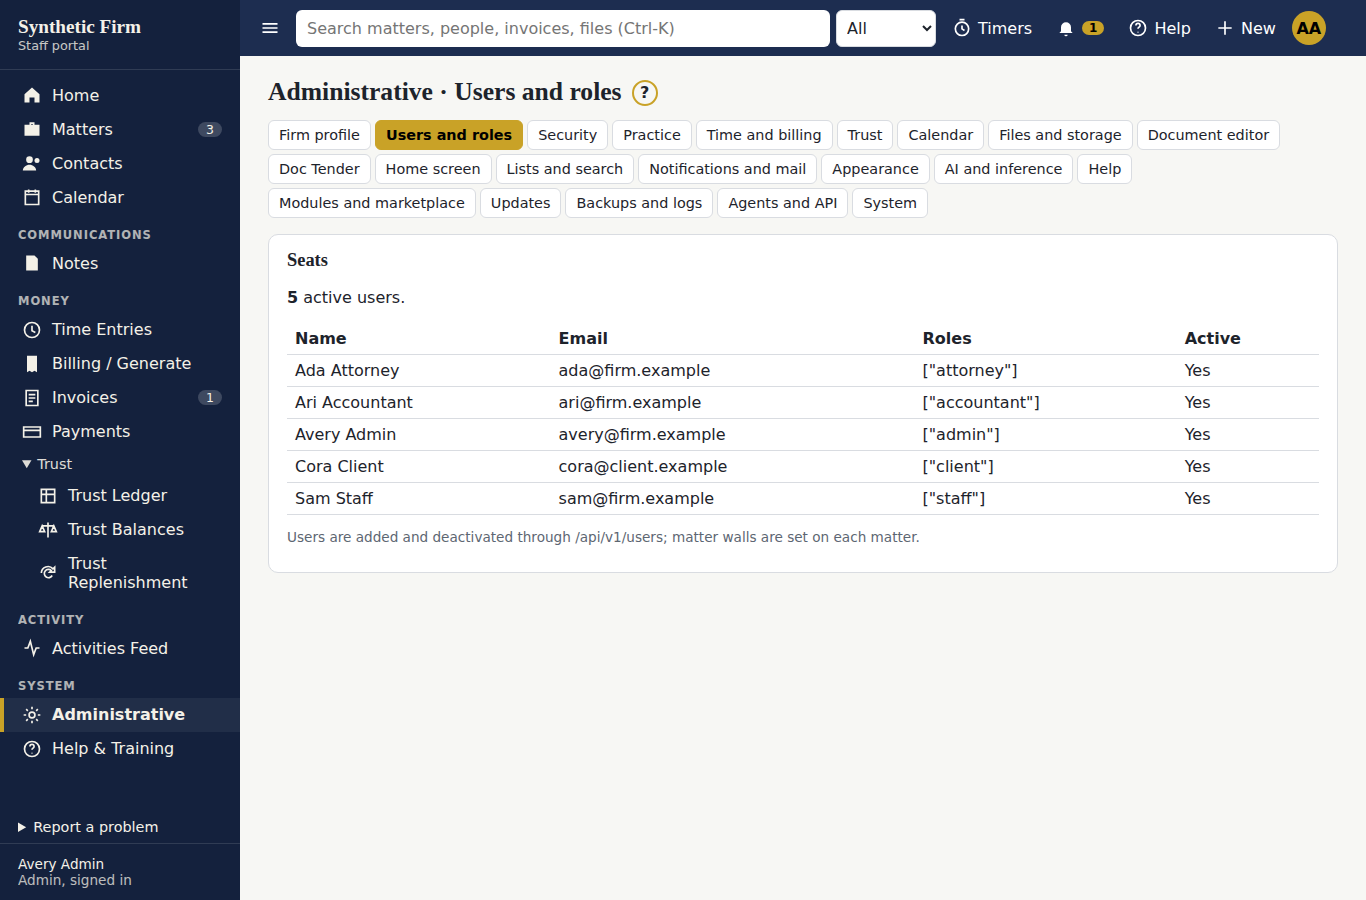
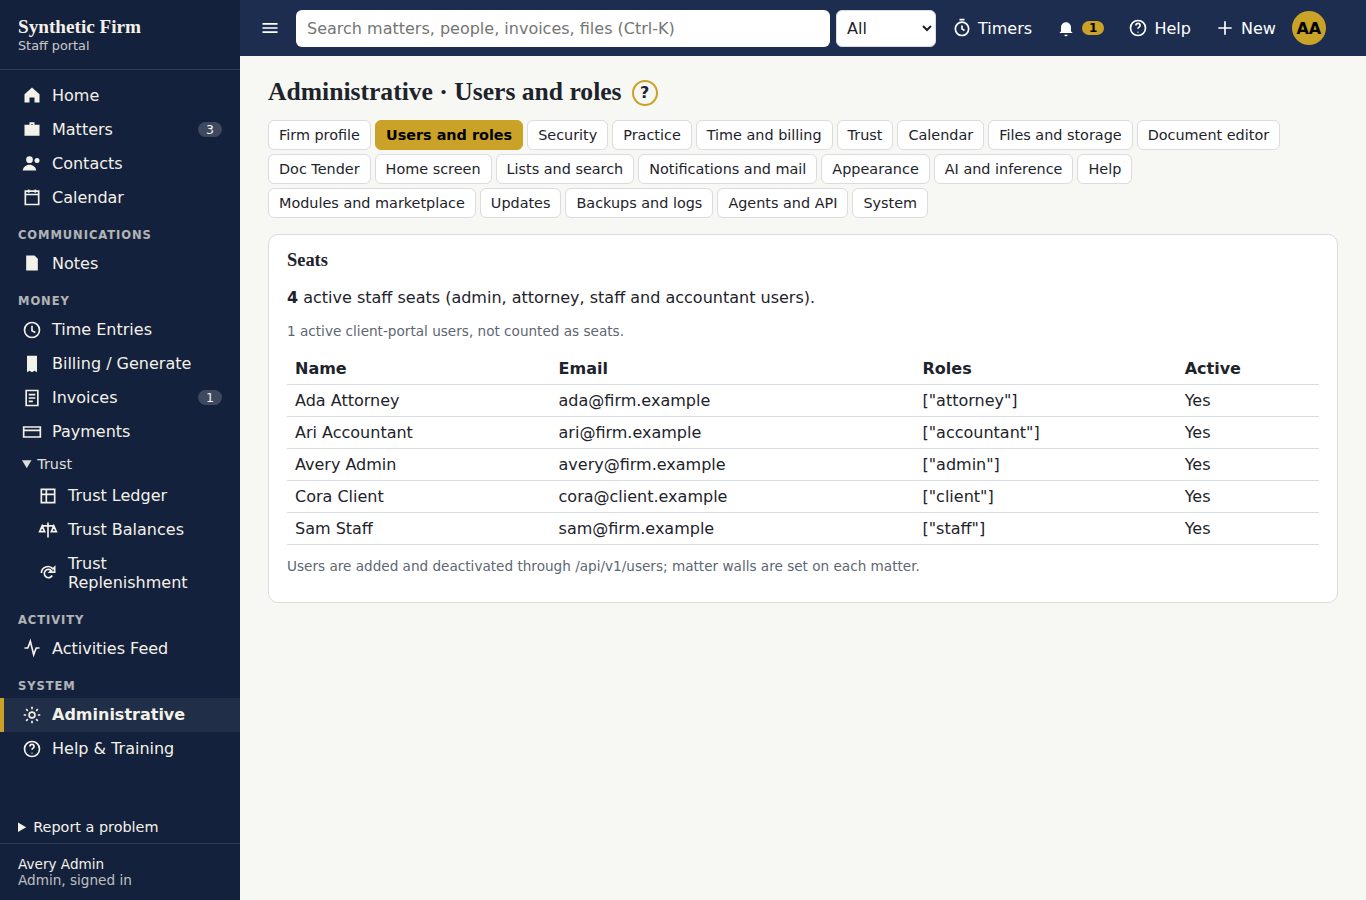
UI: lock the widget catalog for live module installs; seats count staff, not portal users
Codex checkpoint on 8383f19:

P1: Catalog.defs and Catalog.sources were plain maps written by AddModule and
RemoveModule while home, picker and widget requests read them. Catalog now holds a
sync.RWMutex: Def, Visible, For and Load take the read lock (Load copies the source
out and runs it after releasing the lock), AddModule and RemoveModule take the write
lock. TestCatalogModuleInstallWhileRequestsLoadWidgets installs and removes a module
300 times while four goroutines load widgets and layouts; under -race it reports
data races on the old code and passes now.

P2: SeatCount counted every active user, client-portal users included. A seat is now
an active user with a staff-app role (admin, attorney, staff, accountant); active
portal users are counted separately and shown on the System and Users tabs as not
seats. Covered by TestSeatCountCountsActiveStaffNotClientUsers and the PG admin test
with an enrolled client user.

Changed region(s): [[0.2152, 0.3111, 0.6764, 0.6533], [0.6764, 0.3733, 0.7687, 0.5911], [0.8609, 0.3733, 0.9224, 0.5911]]

diff --git a/web/templates/admin/admin.html b/web/templates/admin/admin.html
@@ -61,7 +61,8 @@
 {{end}}
 
 {{if or (eq .Tab "users_roles") (eq .Tab "system")}}
-<section class="card"><h2>Seats</h2><p><strong>{{.Seats}}</strong> active users.</p>
+<section class="card"><h2>Seats</h2><p><strong>{{.Seats.Staff}}</strong> active staff seats (admin, attorney, staff and accountant users).</p>
+<p class="muted">{{.Seats.Clients}} active client-portal users, not counted as seats.</p>
 {{if eq .Tab "users_roles"}}{{if .Users}}<table><thead><tr><th>Name</th><th>Email</th><th>Roles</th><th>Active</th></tr></thead><tbody>
 {{range .Users}}<tr><td>{{.Name}}</td><td>{{.Email}}</td><td>{{.Roles}}</td><td>{{if .Active}}Yes{{else}}No{{end}}</td></tr>{{end}}</tbody></table>{{end}}
 <p class="muted">Users are added and deactivated through /api/v1/users; matter walls are set on each matter.</p>{{end}}

diff --git a/internal/dashboard/service_test.go b/internal/dashboard/service_test.go
@@ -521,3 +521,110 @@ func TestSafeLinksAndTargets(t *testing.T) {
 	}
 	_ = time.Now
 }
+
+// Codex P1 on 8383f19: modules install and uninstall while the core serves requests
+// (AC-012), so the catalog must survive AddModule/RemoveModule racing with home page,
+// picker and widget loads. Run with -race; before the lock this test hit Go's fatal
+// "concurrent map iteration and map write".
+func TestCatalogModuleInstallWhileRequestsLoadWidgets(t *testing.T) {
+	src := map[string]Source{"my-time": func(ctx context.Context, p domain.Principal, f map[string]string) (Widget, error) {
+		return Widget{Title: "My time"}, nil
+	}}
+	svc, _, _ := newTestService(t, src)
+	cat := svc.Catalog()
+	ctx := context.Background()
+	if _, err := svc.PutWorking(ctx, staffP, []LayoutWidget{{WidgetID: "my-time", X: 0, Y: 0, W: 4, H: 3}}); err != nil {
+		t.Fatal(err)
+	}
+	// A module source that reads the catalog while it runs must not deadlock: Load
+	// copies the source out and releases the lock before calling it.
+	modSrc := func(id string) Source {
+		return func(ctx context.Context, p domain.Principal, f map[string]string) (Widget, error) {
+			_ = cat.For(p)
+			return Widget{Title: id}, nil
+		}
+	}
+	stop := make(chan struct{})
+	var wg sync.WaitGroup
+	errs := make(chan error, 64)
+	for i := 0; i < 4; i++ {
+		wg.Add(1)
+		go func() {
+			defer wg.Done()
+			for {
+				select {
+				case <-stop:
+					return
+				default:
+				}
+				_ = cat.For(staffP)
+				_ = cat.Visible(staffP, "matter-clock.clock")
+				_, _ = cat.Def("matter-clock.clock")
+				if _, err := cat.Load(ctx, staffP, "my-time", nil); err != nil {
+					errs <- err
+					return
+				}
+				if _, err := cat.Load(ctx, staffP, "matter-clock.clock", nil); err != nil && code(err) != domain.CodeNotFound {
+					errs <- err
+					return
+				}
+				if _, err := svc.Working(ctx, staffP); err != nil {
+					errs <- err
+					return
+				}
+			}
+		}()
+	}
+	for i := 0; i < 300; i++ {
+		if err := cat.AddModule("matter-clock", []ManifestWidget{{ID: "clock", Title: "Matter clock", Target: "/modules/matter-clock/tab"}}, modSrc); err != nil {
+			t.Fatal(err)
+		}
+		cat.RemoveModule("matter-clock")
+	}
+	close(stop)
+	wg.Wait()
+	close(errs)
+	for err := range errs {
+		t.Fatalf("load during module install: %v", err)
+	}
+	// After the churn the module installs cleanly and its widget loads.
+	if err := cat.AddModule("matter-clock", []ManifestWidget{{ID: "clock", Title: "Matter clock", Target: "/modules/matter-clock/tab"}}, modSrc); err != nil {
+		t.Fatal(err)
+	}
+	if w, err := cat.Load(ctx, staffP, "matter-clock.clock", nil); err != nil || w.Title != "clock" {
+		t.Fatalf("module widget after install: %v %+v", err, w)
+	}
+}
+
+// Codex P2 on 8383f19: a seat is a firm user who signs in to the staff app (admin,
+// attorney, staff, accountant). Client-portal users and inactive users are not seats;
+// the System tab shows active portal users as a separate count so a host sees both.
+func TestSeatCountCountsActiveStaffNotClientUsers(t *testing.T) {
+	ctx := context.Background()
+	svc, _, _ := newTestService(t, nil)
+	svc.d.Staff = func(context.Context) ([]domain.User, error) {
+		return []domain.User{
+			{Email: "admin@firm.example", Roles: `["admin"]`, Active: true},
+			{Email: "atty@firm.example", Roles: `["attorney"]`, Active: true},
+			{Email: "acct@firm.example", Roles: `["accountant"]`, Active: true},
+			{Email: "old@firm.example", Roles: `["staff"]`, Active: false},
+			{Email: "cora@client.example", Roles: `["client"]`, Active: true},
+			{Email: "gone@client.example", Roles: `["client"]`, Active: false},
+			{Email: "both@firm.example", Roles: `["staff","client"]`, Active: true},
+		}, nil
+	}
+	got, err := svc.SeatCount(ctx, adminP)
+	if err != nil {
+		t.Fatal(err)
+	}
+	if got != (Seats{Staff: 4, Clients: 1}) {
+		t.Fatalf("seats: %+v, want 4 staff seats and 1 portal user", got)
+	}
+	if _, err := svc.SeatCount(ctx, staffP); code(err) != domain.CodeForbidden {
+		t.Fatalf("non-admin read the seat count: %v", err)
+	}
+	svc.d.Staff = func(context.Context) ([]domain.User, error) { return nil, errors.New("db down") }
+	if _, err := svc.SeatCount(ctx, adminP); err == nil {
+		t.Fatal("seat count hid a user-list failure")
+	}
+}

diff --git a/internal/dashboard/widgets.go b/internal/dashboard/widgets.go
@@ -7,6 +7,7 @@ import (
 	"regexp"
 	"sort"
 	"strings"
+	"sync"
 
 	"github.com/CharitonMedia/togavsu/internal/domain"
 )
@@ -122,8 +123,12 @@ func ValidateManifestWidgets(module string, ws []ManifestWidget) error {
 	return nil
 }
 
-// Catalog holds the core widgets and the widgets of approved, enabled modules.
+// Catalog holds the core widgets and the widgets of approved, enabled modules. Modules
+// install and uninstall while the core serves requests (PRD 9, AC-012), so every read
+// takes mu's read lock and AddModule/RemoveModule take the write lock. A source is
+// copied out under the lock and run after it is released.
 type Catalog struct {
+	mu      sync.RWMutex
 	defs    map[string]WidgetDef
 	sources map[string]Source
 }
@@ -150,6 +155,8 @@ func (c *Catalog) AddModule(module string, ws []ManifestWidget, src func(widgetI
 	if err := ValidateManifestWidgets(module, ws); err != nil {
 		return err
 	}
+	c.mu.Lock()
+	defer c.mu.Unlock()
 	for _, w := range ws {
 		id := ModuleWidgetID(module, w.ID)
 		roles := w.Roles
@@ -173,6 +180,8 @@ func (c *Catalog) AddModule(module string, ws []ManifestWidget, src func(widgetI
 
 // RemoveModule drops a module's widgets; saved layouts lose them when they next load.
 func (c *Catalog) RemoveModule(module string) {
+	c.mu.Lock()
+	defer c.mu.Unlock()
 	for id, d := range c.defs {
 		if d.Module == module {
 			delete(c.defs, id)
@@ -183,6 +192,8 @@ func (c *Catalog) RemoveModule(module string) {
 
 // Def returns one widget definition.
 func (c *Catalog) Def(id string) (WidgetDef, bool) {
+	c.mu.RLock()
+	defer c.mu.RUnlock()
 	d, ok := c.defs[id]
 	return d, ok
 }
@@ -190,10 +201,13 @@ func (c *Catalog) Def(id string) (WidgetDef, bool) {
 // Visible reports whether p may have widget id on a layout: the widget exists and one of
 // p's roles is among the roles its API route serves.
 func (c *Catalog) Visible(p domain.Principal, id string) bool {
+	c.mu.RLock()
 	d, ok := c.defs[id]
-	if !ok {
-		return false
-	}
+	c.mu.RUnlock()
+	return ok && visible(p, d)
+}
+
+func visible(p domain.Principal, d WidgetDef) bool {
 	for _, r := range d.Roles {
 		if p.HasRole(r) {
 			return true
@@ -209,11 +223,13 @@ func (c *Catalog) For(p domain.Principal) []WidgetDef {
 		order[d.ID] = i
 	}
 	var out []WidgetDef
-	for id, d := range c.defs {
-		if c.Visible(p, id) {
+	c.mu.RLock()
+	for _, d := range c.defs {
+		if visible(p, d) {
 			out = append(out, d)
 		}
 	}
+	c.mu.RUnlock()
 	sort.Slice(out, func(i, j int) bool {
 		oi, iok := order[out[i].ID]
 		oj, jok := order[out[j].ID]
@@ -231,15 +247,17 @@ func (c *Catalog) For(p domain.Principal) []WidgetDef {
 // Load runs one widget's source as p. A widget p cannot see is forbidden before the
 // source runs; the source applies record-level access (walls, attorney-only) itself.
 func (c *Catalog) Load(ctx context.Context, p domain.Principal, id string, filters map[string]string) (Widget, error) {
-	if !c.Visible(p, id) {
-		if _, ok := c.defs[id]; !ok {
-			return Widget{}, domain.NotFound("widget")
-		}
+	c.mu.RLock()
+	d, ok := c.defs[id]
+	src := c.sources[id]
+	c.mu.RUnlock()
+	if !ok {
+		return Widget{}, domain.NotFound("widget")
+	}
+	if !visible(p, d) {
 		return Widget{}, domain.Forbidden(domain.ReasonRole)
 	}
-	src := c.sources[id]
 	if src == nil {
-		d := c.defs[id]
 		return Widget{ID: id, Title: d.Title, Target: Target{Path: d.Page, Query: map[string]string{}}, PagePath: d.Page, Rows: []WidgetRow{}}, errUnavailable
 	}
 	w, err := src(ctx, p, filters)
@@ -253,7 +271,7 @@ func (c *Catalog) Load(ctx context.Context, p domain.Principal, id string, filte
 		w.Target.Query = map[string]string{}
 	}
 	if w.Target.Path == "" {
-		w.Target.Path = c.defs[id].Page
+		w.Target.Path = d.Page
 	}
 	if w.PagePath == "" {
 		w.PagePath = w.Target.Path

diff --git a/internal/dashboard/prefs.go b/internal/dashboard/prefs.go
@@ -714,22 +714,48 @@ func (s *Service) MyTimers(ctx context.Context, p domain.Principal) ([]TimerRow,
 	return s.d.Timers.Timers(ctx, p)
 }
 
-// SeatCount is the active staff seats the admin dashboard shows (PRD 3).
-func (s *Service) SeatCount(ctx context.Context, p domain.Principal) (int, error) {
+// Seats is the System tab's seat count (PRD 3: the admin dashboard shows the active seat
+// count so a host can bill from it). Staff is the seat count: active users holding a
+// staff-app role (admin, attorney, staff, accountant). A client-portal user is not a
+// seat; Clients counts active portal users separately so a host whose terms differ
+// still sees the number. A user with a staff role and the client role is one seat.
+type Seats struct {
+	Staff   int
+	Clients int
+}
+
+// SeatCount is the active seats the admin dashboard shows (PRD 3). Admin only.
+func (s *Service) SeatCount(ctx context.Context, p domain.Principal) (Seats, error) {
 	if err := admin(p); err != nil {
-		return 0, err
+		return Seats{}, err
 	}
 	if s.d.Staff == nil {
-		return 0, nil
+		return Seats{}, nil
 	}
 	users, err := s.d.Staff(ctx)
 	if err != nil {
-		return 0, err
+		return Seats{}, err
 	}
-	var n int
+	var n Seats
 	for _, u := range users {
-		if u.Active {
-			n++
+		if !u.Active {
+			continue
+		}
+		roles, _ := domain.ParseRoles(u.Roles)
+		staff, client := false, false
+		for _, r := range roles {
+			switch r {
+			case domain.RoleAdmin, domain.RoleAttorney, domain.RoleStaff, domain.RoleAccountant:
+				staff = true
+			case domain.RoleClient:
+				client = true
+			}
+		}
+		switch {
+		case staff:
+			n.Staff++
+		case client:
+			n.Clients++
 		}
 	}
 	return n, nil

diff --git a/internal/dashboard/compose/ui_pg_test.go b/internal/dashboard/compose/ui_pg_test.go
@@ -642,8 +642,11 @@ func TestUIAdminSettings(t *testing.T) {
 			t.Fatalf("tab %s has no ? icon", tab)
 		}
 	}
-	if r := e.admin.must(http.StatusOK, "GET", "/admin?tab=system", nil); !strings.Contains(r.body, "<strong>4</strong> active users") || !strings.Contains(r.body, "home.max_saved_layouts") {
-		t.Fatalf("system tab: seat count or audit rows missing")
+	// Seats are active staff-app users (PRD 3); an active client-portal user is shown
+	// separately and is not a seat (Codex P2 on 8383f19).
+	e.createUser("Cora Client", "cora@client.example", "", domain.RoleClient)
+	if r := e.admin.must(http.StatusOK, "GET", "/admin?tab=system", nil); !strings.Contains(r.body, "<strong>4</strong> active staff seats") || !strings.Contains(r.body, "1 active client-portal users, not counted as seats") || !strings.Contains(r.body, "home.max_saved_layouts") {
+		t.Fatalf("system tab: seat count, portal-user count or audit rows missing")
 	}
 	// The secret SMTP password never shows.
 	e.admin.form("/admin/settings/mail.smtp_password", url.Values{"value": {"synthetic-secret-value"}, "tab": {"notifications_mail"}})

diff --git a/internal/dashboard/pages.go b/internal/dashboard/pages.go
@@ -967,7 +967,7 @@ type adminView struct {
 	Roles      []roleLayoutView
 	Help       []helpSectionView
 	Users      []domain.User
-	Seats      int
+	Seats      Seats
 	Problems   []ProblemReport
 	Audit      []AuditRow
 	HelpPath   string
